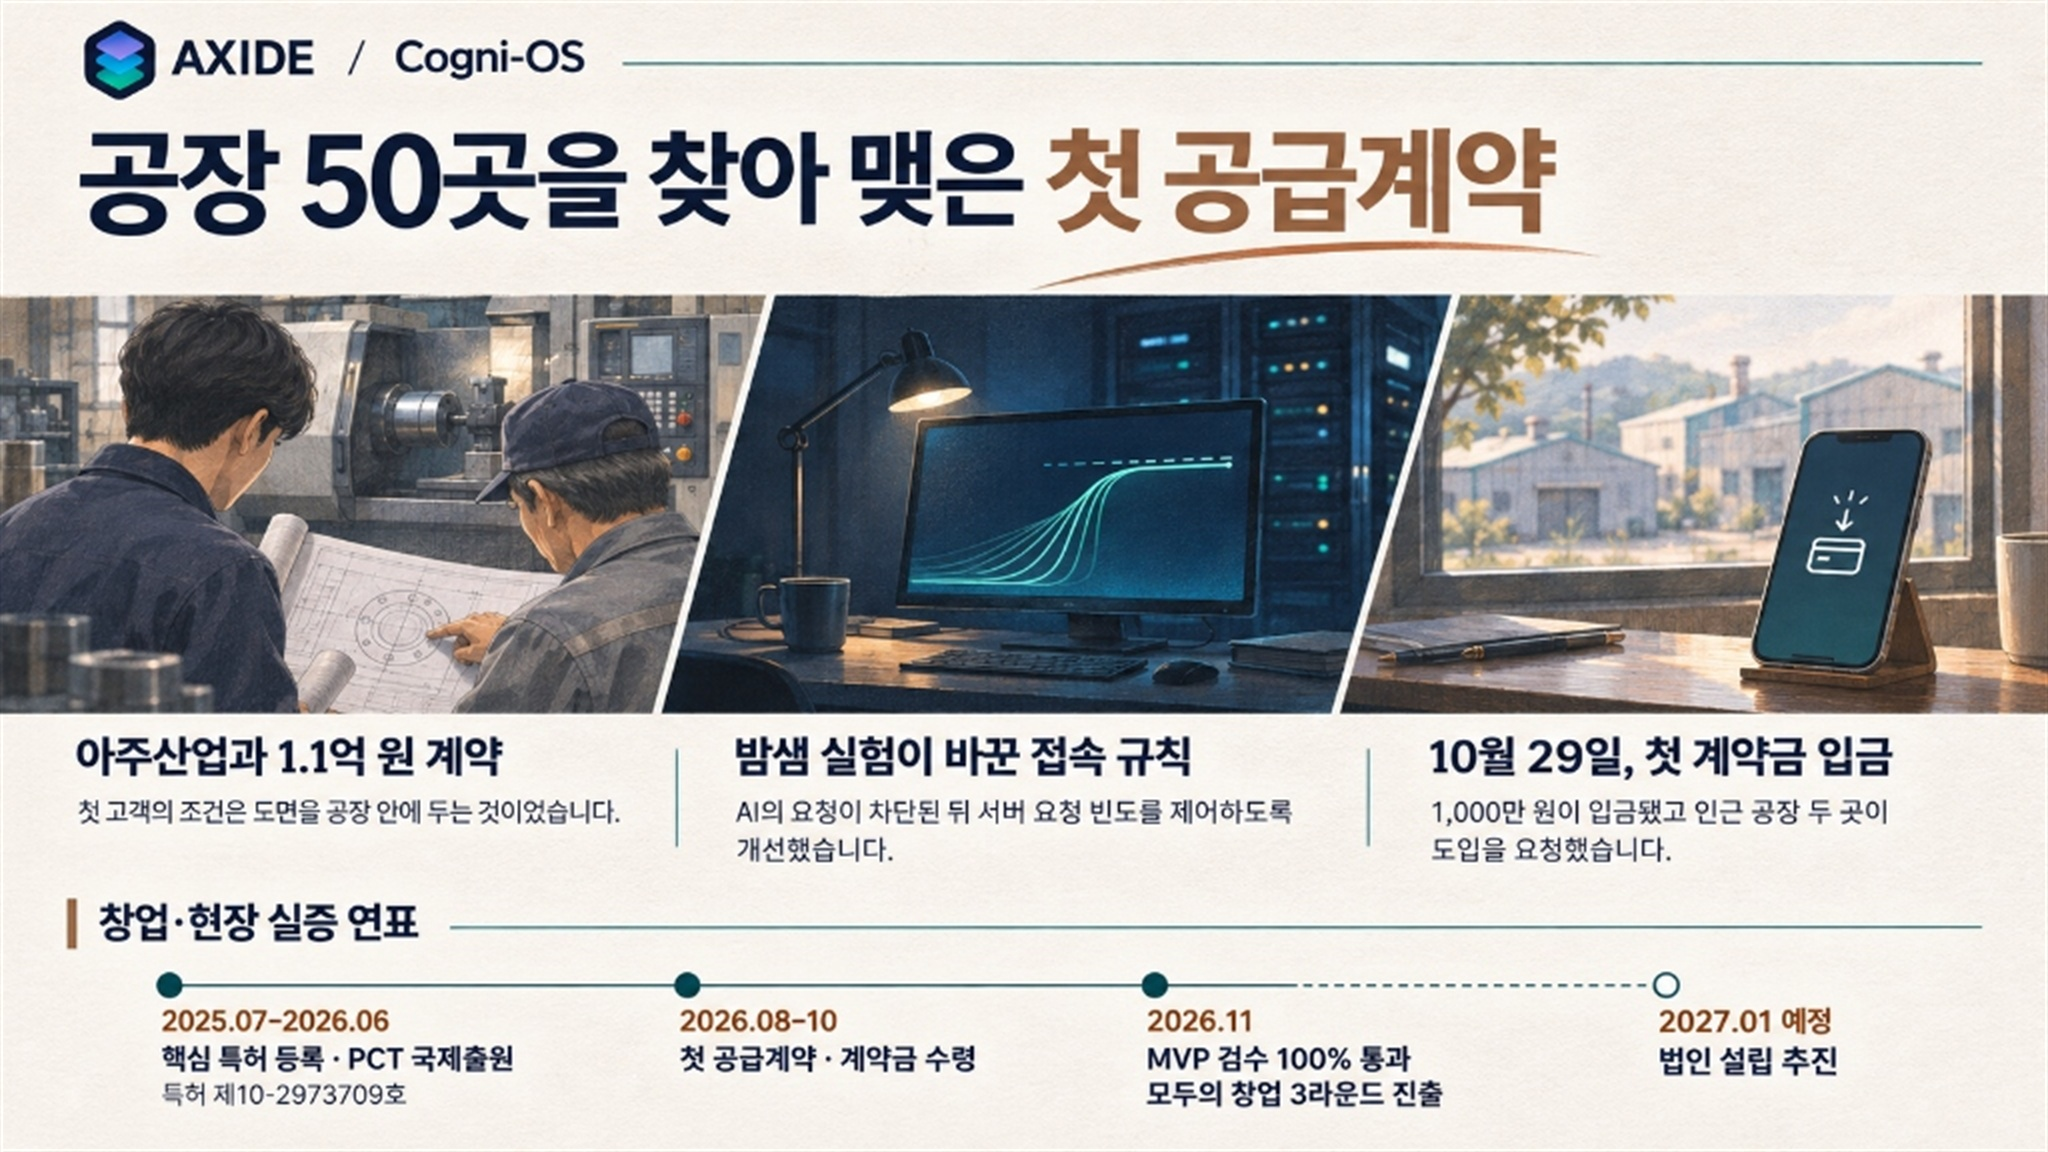
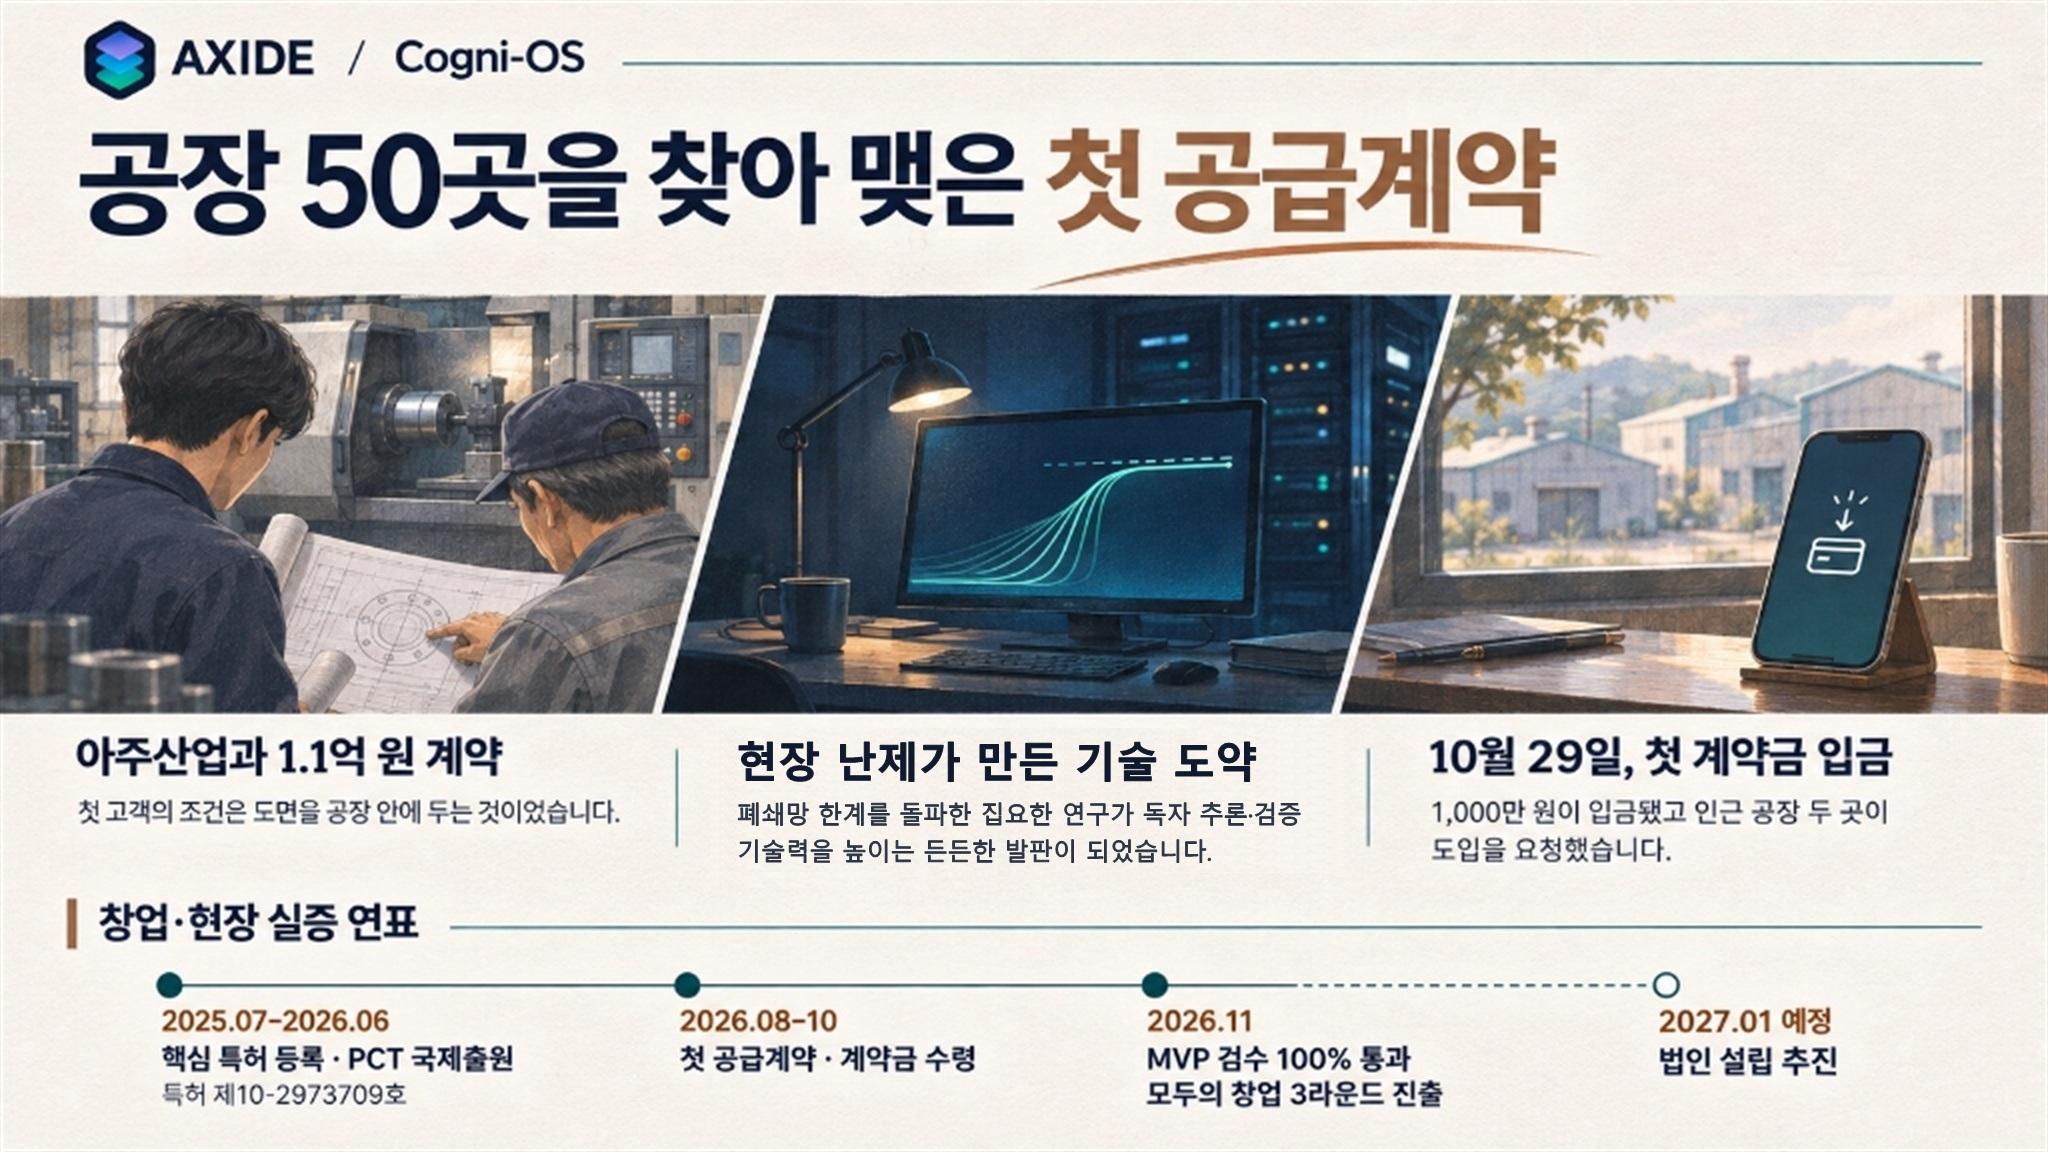
feat(story): update 50-factories middle column to technology leap & stepping stone narrative

Changed region(s): [[0.3438, 0.625, 0.6562, 0.75]]

diff --git a/story.html b/story.html
@@ -1066,8 +1066,8 @@
 
                     <!-- 공장 50곳을 찾아 맺은 첫 공급계약 & 창업·현장 실증 연표 Visual Card -->
                     <div class="story-figure-card mb-0" style="border-color: rgba(251, 191, 36, 0.35);">
-                        <div class="story-figure-Stage stage-light" style="padding: 0;" onclick="openStoryLightbox('assets/images/story/story-50factories-first-contract-timeline.jpg?v=20261106v162', '공장 50곳을 찾아 맺은 첫 공급계약 — 아주산업 1.1억 원 계약 · 밤샘 실험이 바꾼 접속 규칙 · 첫 계약금 입금 & 창업·현장 실증 연표', false)">
-                            <img src="assets/images/story/story-50factories-first-contract-timeline.jpg?v=20261106v162" alt="AXIDE Cogni-OS 공장 50곳을 찾아 맺은 첫 공급계약 및 창업·현장 실증 연표" style="width: 100%; height: auto; display: block;" decoding="async" loading="lazy">
+                        <div class="story-figure-Stage stage-light" style="padding: 0;" onclick="openStoryLightbox('assets/images/story/story-50factories-first-contract-timeline.jpg?v=20261107v203', '공장 50곳을 찾아 맺은 첫 공급계약 — 아주산업 1.1억 원 계약 · 현장 난제가 만든 기술 도약 · 첫 계약금 입금 & 창업·현장 실증 연표', false)">
+                            <img src="assets/images/story/story-50factories-first-contract-timeline.jpg?v=20261107v203" alt="AXIDE Cogni-OS 공장 50곳을 찾아 맺은 첫 공급계약(아주산업 1.1억 원 계약 · 현장 난제가 만든 기술 도약 · 10월 29일 첫 계약금 입금) 및 창업·현장 실증 연표" style="width: 100%; height: auto; display: block;" decoding="async" loading="lazy">
                         </div>
                     </div>
                 </div>
